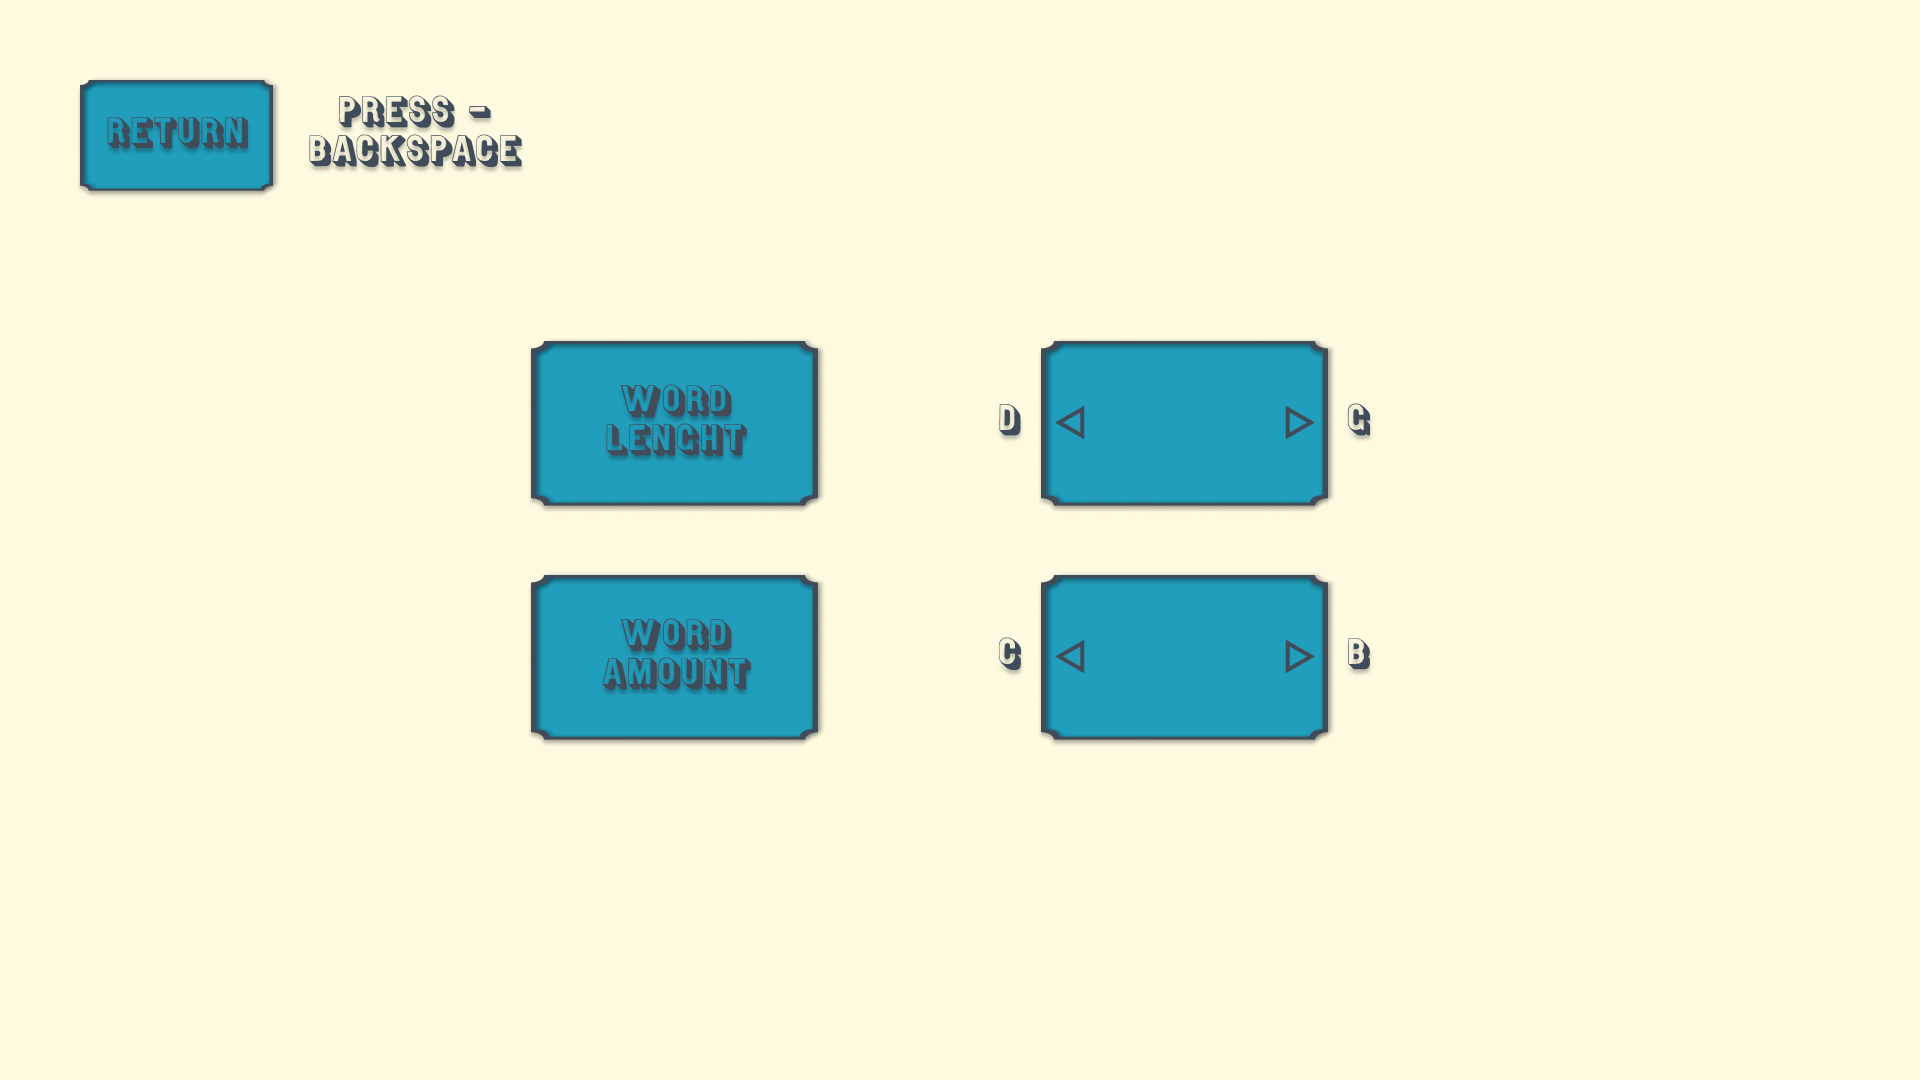
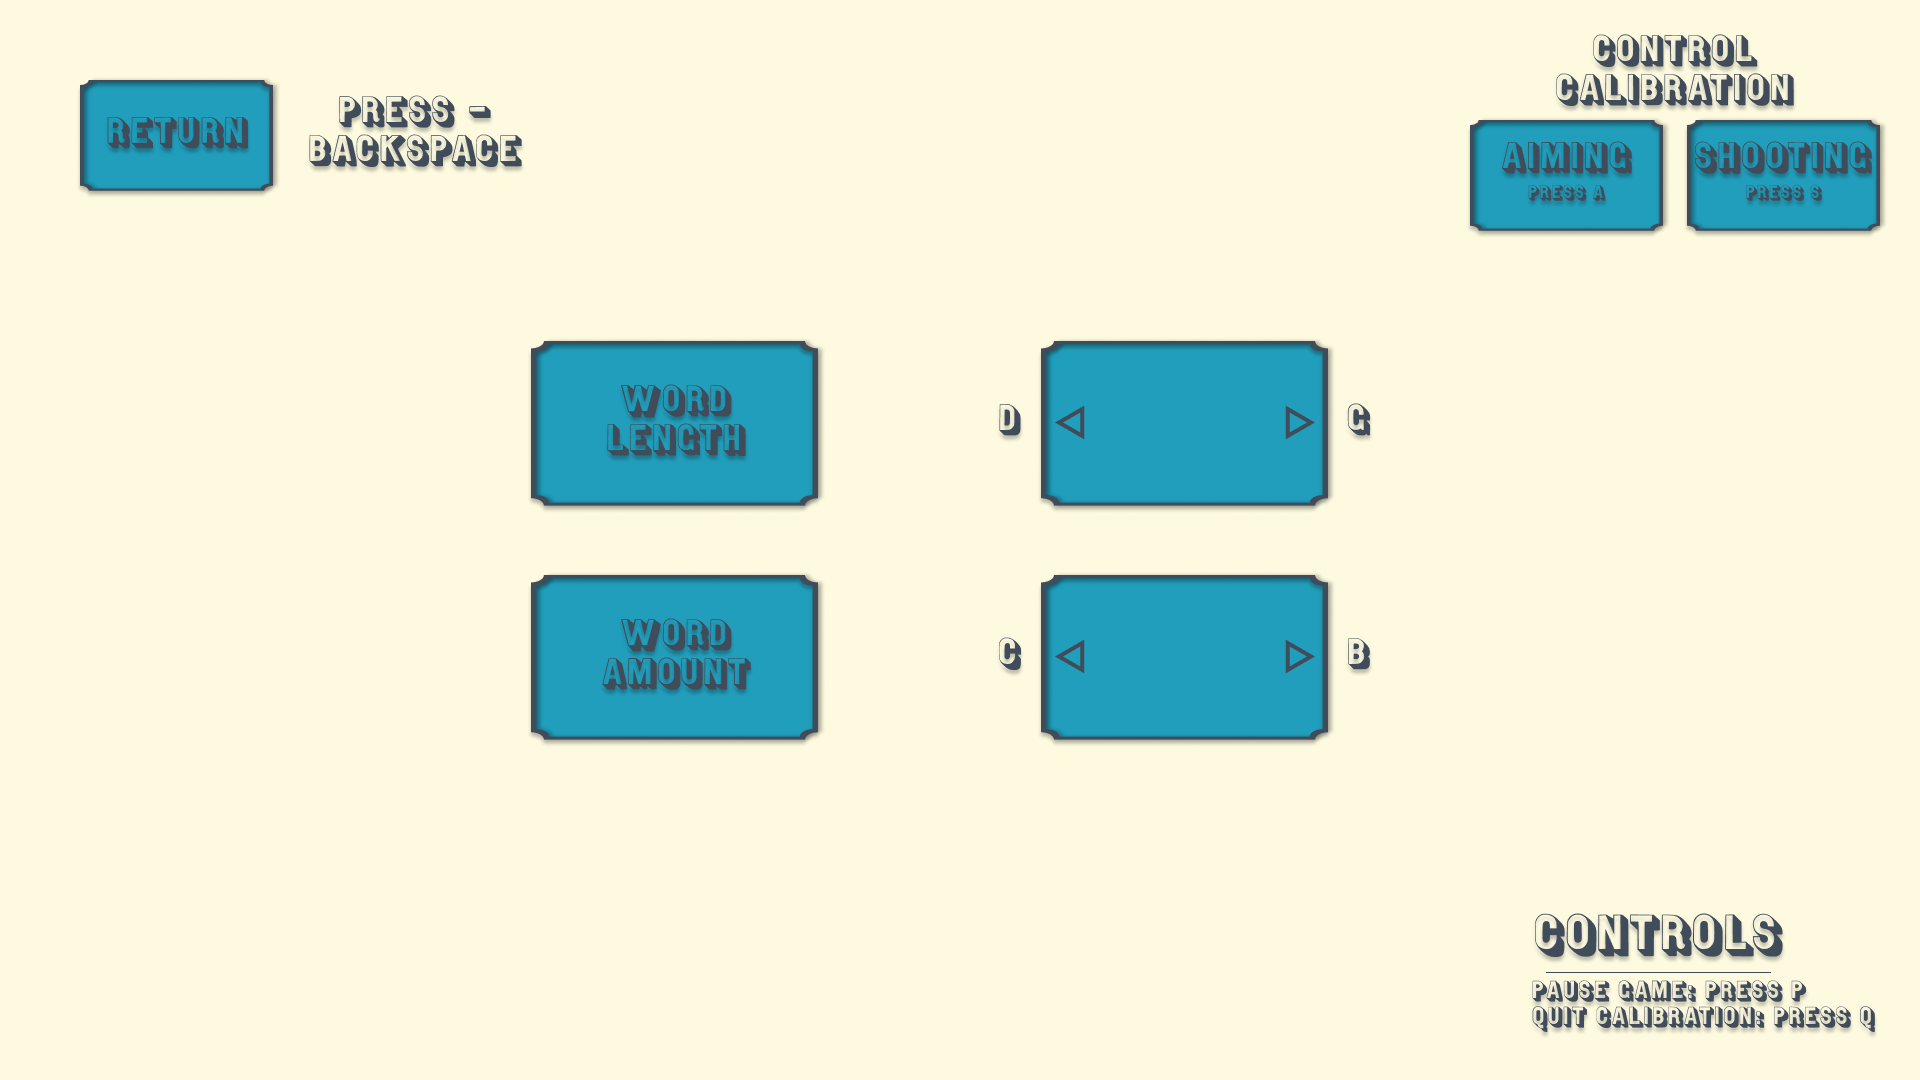
[Add]: Control calibration added

Changed region(s): [[0.75, 0.0306, 1.0, 0.2444], [0.7812, 0.825, 0.9688, 0.9778], [0.3125, 0.3972, 0.4062, 0.4278]]

diff --git a/VisionCamera.cpp b/VisionCamera.cpp
@@ -19,27 +19,28 @@ void VisionCamera::colorSettings(vector<int>* colorValues)
 {
 	namedWindow("Trackbars", (640, 200));
 	createTrackbar("Hue Min", "Trackbars", &colorValues->at(0), 179);
-	createTrackbar("Hue Max", "Trackbars", &colorValues->at(1), 179);
-	createTrackbar("Sat Min", "Trackbars", &colorValues->at(2), 255);
-	createTrackbar("Sat Max", "Trackbars", &colorValues->at(3), 255);
-	createTrackbar("Val Min", "Trackbars", &colorValues->at(4), 255);
+	createTrackbar("Hue Max", "Trackbars", &colorValues->at(3), 179);
+	createTrackbar("Sat Min", "Trackbars", &colorValues->at(1), 255);
+	createTrackbar("Sat Max", "Trackbars", &colorValues->at(4), 255);
+	createTrackbar("Val Min", "Trackbars", &colorValues->at(2), 255);
 	createTrackbar("Val Max", "Trackbars", &colorValues->at(5), 255);
 
 	while (true)
 	{
 		cap.read(img);
 		cvtColor(img, imgHSV, COLOR_BGR2HSV);
-		Scalar lower(hmin, smin, vmin);
-		Scalar upper(hmax, smax, vmax);
+		Scalar lower(colorValues->at(0), colorValues->at(1), colorValues->at(2));
+		Scalar upper(colorValues->at(3), colorValues->at(4), colorValues->at(5));
 		inRange(imgHSV, lower, upper, mask);
 
-		cout << "hmin: " << hmin << ", smin: " << smin << ", vmin: " << vmin << endl;
-		cout << "hmax: " << hmax << ", smax: " << smax << ", vmax: " << vmax << endl;
+		//cout << "hmin: " << colorValues->at(0) << ", smin: " << colorValues->at(1) << ", vmin: " << colorValues->at(2) << endl;
+		//cout << "hmax: " << colorValues->at(3) << ", smax: " << colorValues->at(4) << ", vmax: " << colorValues->at(5) << endl;
 		imshow("Image", img);
-		imshow("Mask", mask);
+		imshow("Press q to quit", mask);
 
 		char key = (char)waitKey(30);
 		if (key == 113) {
+			destroyAllWindows();
 			break;
 		}
 	}

diff --git a/SceneSettings.cpp b/SceneSettings.cpp
@@ -16,10 +16,11 @@ extern GLFWwindow* window;
 Text* wordAmountText;
 extern int currentWordLength;
 extern int currentWordAmount;
+extern VisionCamera* VC;
 
-void SceneSettings::changeColor()
+void SceneSettings::changeColor(int index)
 {
-	VC->colorSettings(&VC->myColors.at(0));
+	VC->colorSettings(&VC->myColors.at(index));
 }
 
 SceneSettings::SceneSettings()
@@ -93,7 +94,10 @@ void SceneSettings::update()
 				}
 			}
 			else if (key == GLFW_KEY_A && action == GLFW_PRESS) {
-				handler->changeColor();
+				handler->changeColor(0);
+			}
+			else if (key == GLFW_KEY_S && action == GLFW_PRESS) {
+				handler->changeColor(1);
 			}
 		});
 	

diff --git a/SceneIngame.cpp b/SceneIngame.cpp
@@ -117,7 +117,7 @@ void SceneIngame::draw()
 	rayCast(VC->getCrossHairCoords().x, VC->getCrossHairCoords().y, viewmatrix, projection);
 
 	// Debug use mouse as pointer
-	{
+	/*{
 		double xpos, ypos;
 		glfwGetCursorPos(window, &xpos, &ypos);
 		int state = glfwGetMouseButton(window, GLFW_MOUSE_BUTTON_LEFT);
@@ -126,7 +126,7 @@ void SceneIngame::draw()
 			VC->redDetected = true;
 		}
 		rayCast(xpos, ypos, viewmatrix, projection);
-	}
+	}*/
 
 	tigl::shader->enableLighting(false);
 

diff --git a/VisionCamera.h b/VisionCamera.h
@@ -42,10 +42,8 @@ public:
 	void update();
 	glm::vec2 getCrossHairCoords();
 	vector<vector<int>> myColors{
-		//{16, 28, 7, 93, 106, 172}, //Yellow - temp (delete after)
-		//{hmin, smin, vmin, hmax, smax, vmax} //blue - temp (delete after)
-		{0, 146, 165, 22, 236, 255}, //red
 		{55, 52, 7, 93, 106, 172}, //green
+		{0, 146, 165, 22, 236, 255} //red
 	};
 };
 

diff --git a/main.cpp b/main.cpp
@@ -102,7 +102,6 @@ void init()
 	sceneInGame->VC = VC;
 	scenes[Scenes::PAUSE] = new ScenePause();
 	scenes[Scenes::SETTINGS] = sceneSettings;
-	sceneSettings->VC = VC;
 	scenes[Scenes::CREDITS] = new SceneCredits();
 	scenes[Scenes::GAMEEND] = new SceneEnding();
 	currentScene = scenes[Scenes::STARTUP];

diff --git a/SceneSettings.h b/SceneSettings.h
@@ -15,10 +15,9 @@ private:
     std::string intToString(int number);
 
 public:
-    void changeColor();
+    void changeColor(int index);
     SceneSettings();
     virtual void draw() override;
     virtual void update() override;
     virtual void freeTextures() override;
-    VisionCamera* VC;
 };
